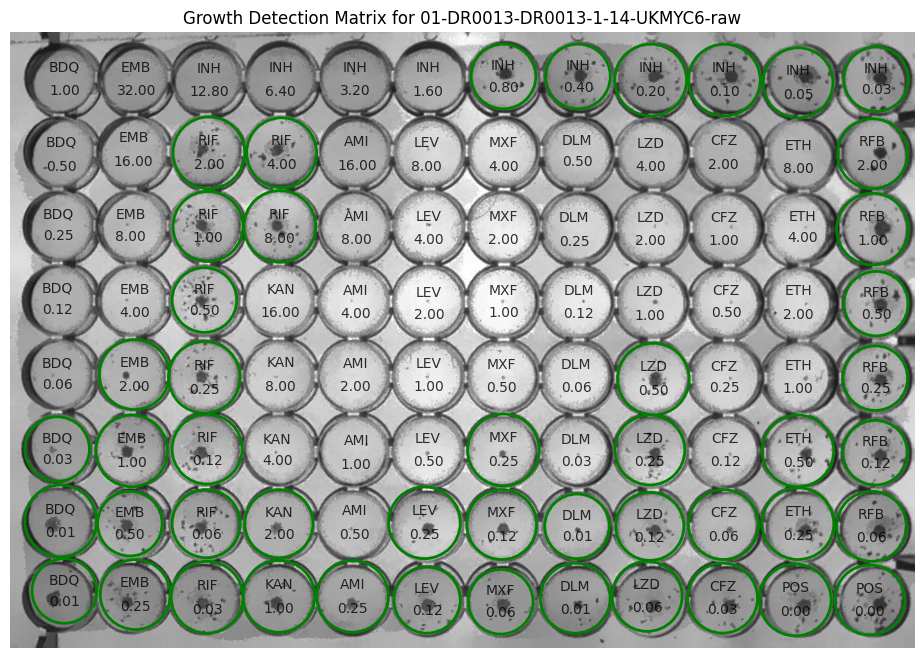
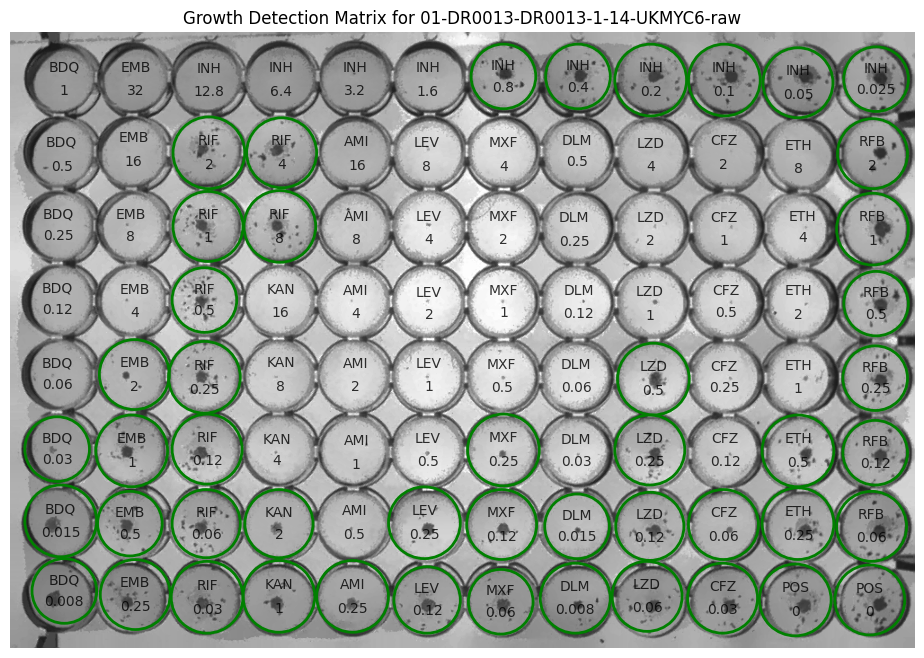
visualize conc to 3 decimal points

diff --git a/tmas/tmas/analysis.py b/tmas/tmas/analysis.py
@@ -66,7 +66,7 @@ def visualize_growth_matrix(image_name, img, growth_matrix, drug_info, drug_resu
 
             # Add drug name and concentration text annotations
             ax.text(well_x, well_y - well_radii[row, col] * 0.3, drug, ha='center', va='center', fontsize=10, color='black', alpha=0.8)
-            ax.text(well_x, well_y + well_radii[row, col] * 0.3, f"{conc:.2f}", ha='center', va='center', fontsize=10, color='black', alpha=0.8)
+            ax.text(well_x, well_y + well_radii[row, col] * 0.3, conc, ha='center', va='center', fontsize=10, color='black', alpha=0.8)
 
     # Remove axis ticks and labels
     ax.set_xticks([])

diff --git a/scripts/visualize_results.py b/scripts/visualize_results.py
@@ -1,0 +1,1 @@
+# The current function for visualization is in analysis.py

diff --git a/README.md b/README.md
@@ -22,7 +22,7 @@ $ pip install tmas
 3. Run the TMAS system:
 
    ```bash
-   python scripts/run_tmas.py
+   python -m scripts.run_tmas
    ```
 
 ## Overview
